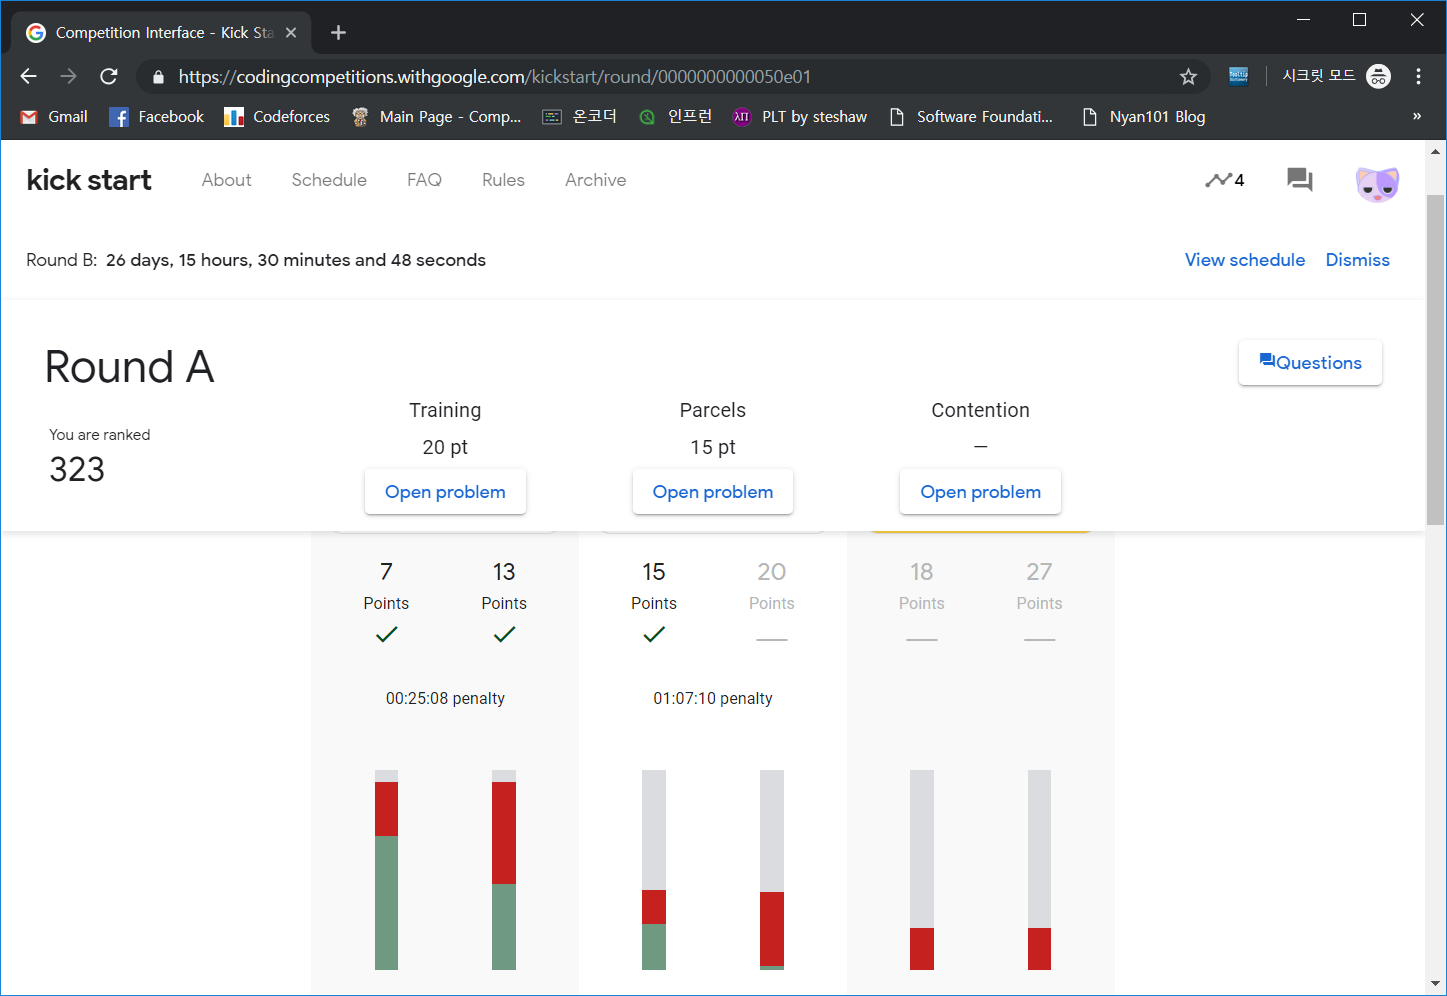
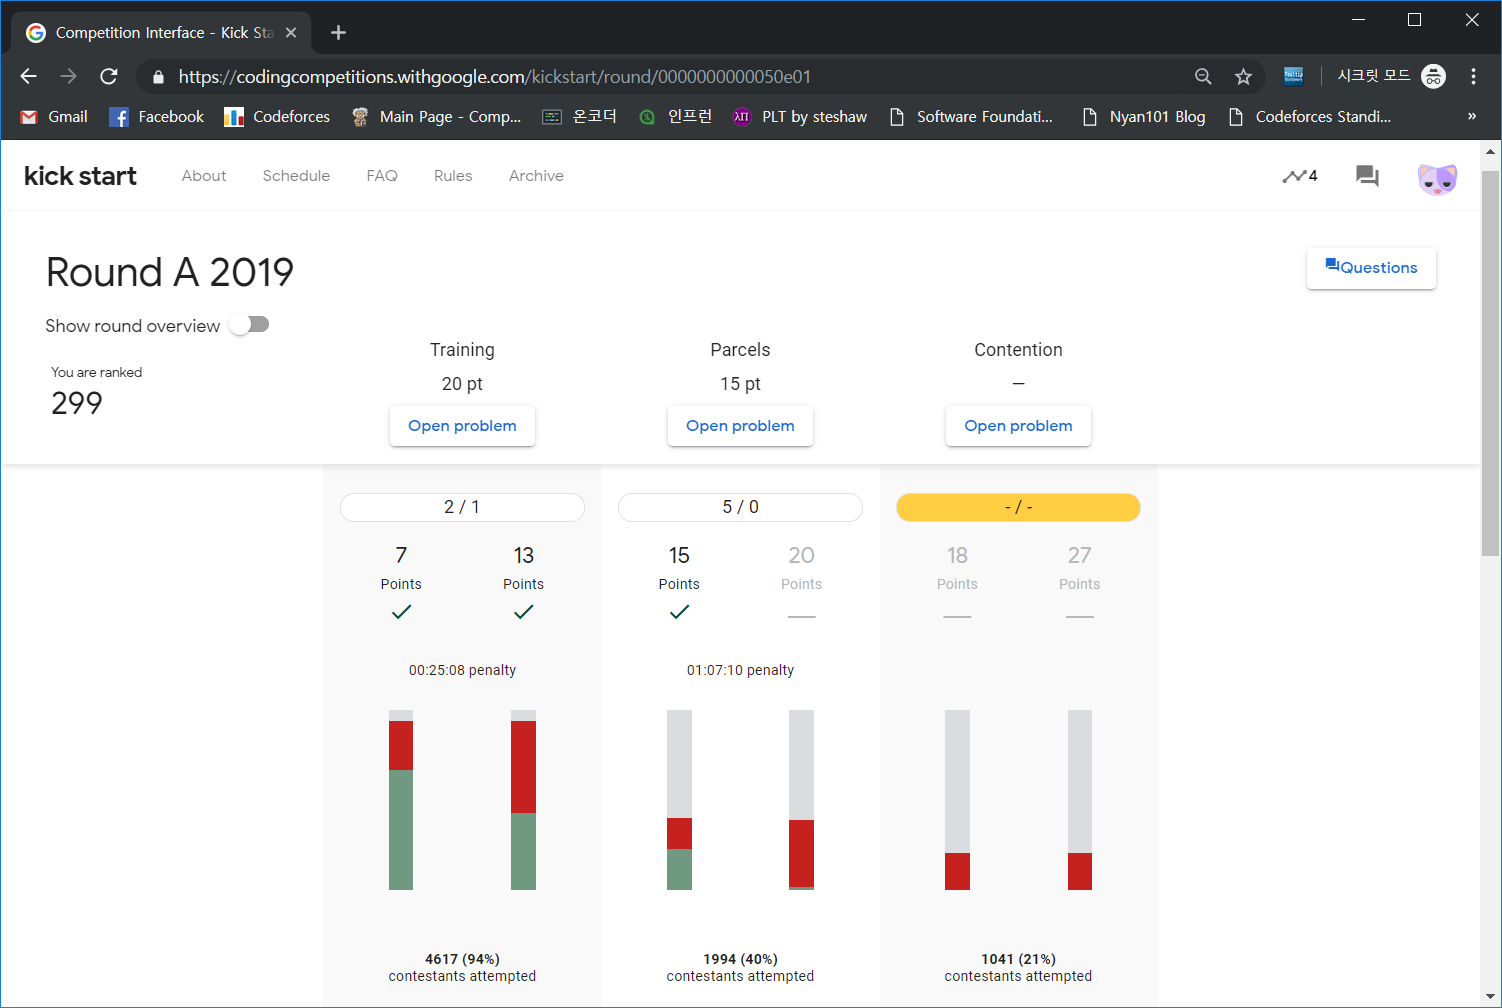
fix Kickstart 2019 A rank

diff --git a/_posts/2019-03-25-CodeJam-Kickstart-2019-RoundA-후기.md b/_posts/2019-03-25-CodeJam-Kickstart-2019-RoundA-후기.md
@@ -15,7 +15,7 @@ use_math: true
 <img src="/assets/images/2019/03/kickstart-main.png" width="800px">
 
 
-결론부터 말하면 다소 삐걱거리는 출발이었다. 시작 직후 한동안 문제 로딩이 안 되면서 몇 분 후에야 문제를 볼 수 있었고, 제출에서도 다소의 딜레이가 있었다. 거기에 더해 대회 막판에는 아예 제출버튼을 눌러도 코드 제출이 이루어지지 않아서 결국 끝까지 제출하지 못한 상태로 대회가 끝났다. 나름 지난 몇 차례의 킥스타트에서 꾸준히 10~20등 정도의 성적을 내다가 이번에 323등이라는 숫자를 보니 조금 억울하긴 하다(...)
+결론부터 말하면 다소 삐걱거리는 출발이었다. 시작 직후 한동안 문제 로딩이 안 되면서 몇 분 후에야 문제를 볼 수 있었고, 제출에서도 다소의 딜레이가 있었다. 거기에 더해 대회 막판에는 아예 제출버튼을 눌러도 코드 제출이 이루어지지 않아서 결국 끝까지 제출하지 못한 상태로 대회가 끝났다. 나름 지난 몇 차례의 킥스타트에서 꾸준히 10~20등 정도의 성적을 내다가 이번에 299등이라는 숫자를 보니 조금 억울하긴 하다(...)
 
 <img src="/assets/images/2019/03/kickstart-A-dashboard.png" width="800px">
 
